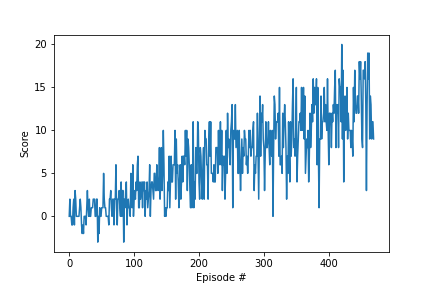
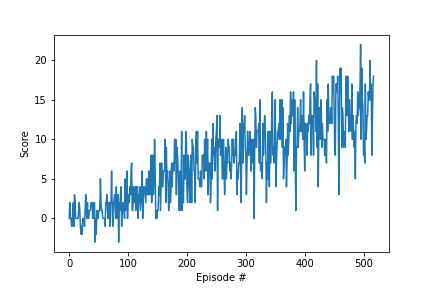
Change stopping average score to 13

diff --git a/p1_navigation/navigation.py b/p1_navigation/navigation.py
@@ -107,7 +107,7 @@ class Environment(object):
             print('\rEpisode {}\tAverage Score: {:.2f}'.format(i_episode, np.mean(scores_window)), end="")
             if i_episode % 100 == 0:
                 print('\rEpisode {}\tAverage Score: {:.2f}'.format(i_episode, np.mean(scores_window)))
-            if np.mean(scores_window) >= 12:
+            if np.mean(scores_window) >= 13:
                 print('\nEnvironment solved in {:d} episodes!\tAverage Score: {:.2f}'.format(i_episode - 100,
                                                                                              np.mean(scores_window)))
                 torch.save(self._agent.qnetwork_local.state_dict(), 'checkpoint.pth')

diff --git a/p1_navigation/Report.md b/p1_navigation/Report.md
@@ -22,9 +22,9 @@ UPDATE_EVERY = 4  # how often to update the network
 ```
 
 ### Results
-The training will terminate once average score reaches 12.
+The training will terminate once average score reaches 13.
 
-The network converges in 370 episodes
+The network converges in 418 episodes
 
 The score per episode during training:
 
